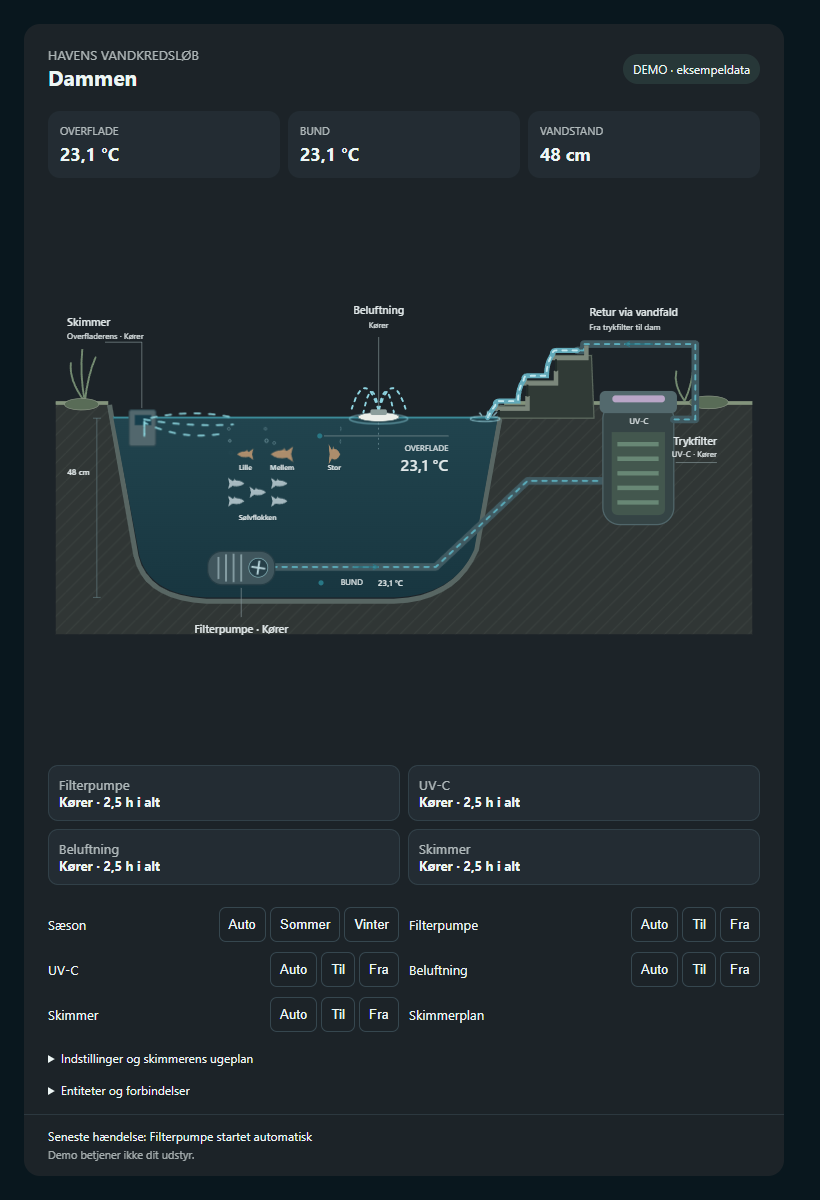
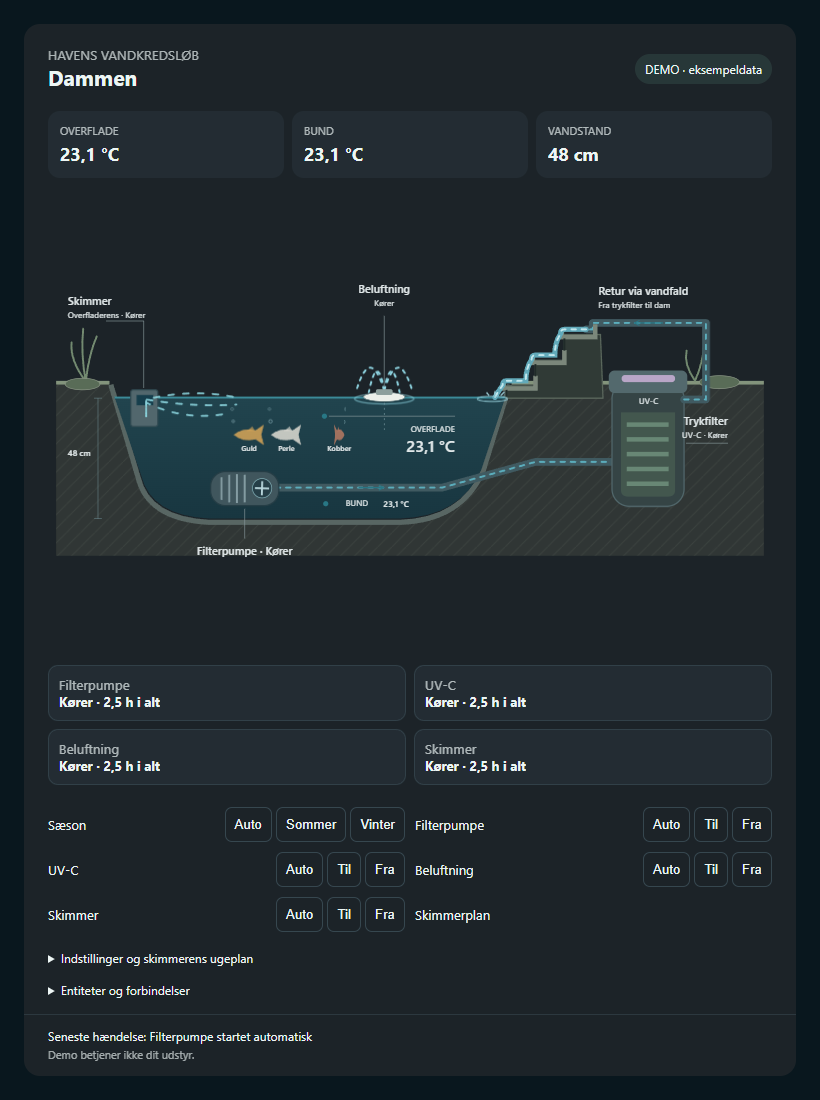
Turn school members individually and scale each fish bubble stream

diff --git a/pond-flow-card.js b/pond-flow-card.js
@@ -65,6 +65,10 @@ class PondFlowCard extends HTMLElement {
       swim.updatePlaybackRate(speed.current);
       const name=fish.querySelector('.fish-name-swim')?.getAnimations()[0];
       if (name && name.playState === 'running') name.updatePlaybackRate(speed.current);
+      fish.querySelectorAll('.fish-facing').forEach(member=>{
+        const turn=member.getAnimations()[0];
+        if(turn?.playState==='running') turn.updatePlaybackRate(speed.current);
+      });
     });
   }
   setConfig(config) {
@@ -92,15 +96,18 @@ class PondFlowCard extends HTMLElement {
   }
   pondDepth() { return Math.max(0,...this.fish().map(fish=>fish.row+fish.rowSpan-1))*48; }
   fishBodies(fish) {
-    const positions=fish.school?[[0,0],[-12,-6],[12,-6],[-12,6],[12,6]]:[[0,0]];
-    const scale=fish.scale*(fish.school ? .45 : 1);
-    return positions.map(([x,y])=>`<g class="fish-body" transform="translate(${x*fish.scale} ${y*fish.scale}) scale(${scale})"><path d="M-24 0Q-10-12 10-7L23-16L19 0L23 16L10 7Q-10 12-24 0Z" fill="${esc(fish.color)}" opacity=".85"/><path d="M-3-6L5-13L9-6" fill="${esc(fish.color)}" opacity=".65"/></g>`).join('');
+    const positions=fish.school?[[0,0],[-15,-9],[15,-9],[-15,9],[15,9]]:[[0,0]];
+    const scale=fish.scale*(fish.school ? .28 : 1);
+    return positions.map(([x,y],index)=>`<g class="fish-member" transform="translate(${x*fish.scale} ${y*fish.scale})" style="--turn-delay:${fish.delay-(fish.school?index*.18:0)}s;--bubble-delay:${fish.delay-index*.7}s;--bubble-rise:${(362-fish.y-y*fish.scale)/scale}px">
+      <g class="fish-scale" transform="scale(${scale})"><g class="fish-facing">
+      <g class="fish-body"><path d="M-24 0Q-10-12 10-7L23-16L19 0L23 16L10 7Q-10 12-24 0Z" fill="${esc(fish.color)}" opacity=".85"/><path d="M-3-6L5-13L9-6" fill="${esc(fish.color)}" opacity=".65"/></g>
+      ${this.config.fish_bubbles === false ? '' : '<g class="fish-bubbles" aria-hidden="true"><circle class="fish-bubble" cx="-23" cy="-2" r="2.5"/><circle class="fish-bubble" cx="-23" cy="-2" r="1.8"/><circle class="fish-bubble" cx="-23" cy="-2" r="2"/></g>'}
+      </g></g></g>`).join('');
   }
   fishMarkup() {
     return this.fish().map(fish => `<g class="fish${fish.school?' fish-school':''}" data-section="fish-${esc(fish.id)}" role="img" aria-label="${esc(fish.name || 'Fisk')}${fish.school?' · flok på 5 fisk':''}" transform="translate(${fish.x} ${fish.y})" style="--swim-duration:${fish.duration}s;--swim-delay:${fish.delay}s;--bubble-rise:${362-fish.y}px">
       <title>${esc(fish.name || 'Fisk')}</title><g class="fish-swim">
       ${this.fishBodies(fish)}
-      ${this.config.fish_bubbles === false ? '' : '<g class="fish-bubbles" aria-hidden="true"><circle class="fish-bubble" cx="-23" cy="-2" r="2.5"/><circle class="fish-bubble" cx="-23" cy="-2" r="1.8"/><circle class="fish-bubble" cx="-23" cy="-2" r="2"/></g>'}
       </g>${this.config.fish_names === false || !fish.name ? '' : `<g class="fish-name-swim" aria-hidden="true"><text class="fish-name" x="0" y="25" text-anchor="middle">${esc(fish.name)}</text></g>`}</g>`).join('');
   }
   set hass(hass) {
@@ -157,14 +164,16 @@ class PondFlowCard extends HTMLElement {
       svg{width:100%;height:auto;min-height:160px;flex:1 0 auto;display:block}ha-card> :not(svg){flex-shrink:0}svg text{font-family:system-ui;fill:#d7e9ed;font-size:13px}.flow{fill:none;stroke:#53d5db;stroke-width:7;stroke-linecap:round;stroke-dasharray:9 14;opacity:.28}.active{opacity:1;animation:water 2s linear infinite}@keyframes water{to{stroke-dashoffset:-48}}@media(prefers-reduced-motion:reduce){.active{animation:none}}
       .controls{padding:4px 24px 18px;display:grid;grid-template-columns:1fr 1fr;gap:10px}.control{display:flex;justify-content:space-between;align-items:center;gap:8px;font-size:13px}.control select{max-width:115px;padding:8px;border:1px solid #7196a550;border-radius:8px;background:var(--card-background-color,#193340);color:inherit}.status{padding:12px 24px;border-top:1px solid #7196a530;font-size:12px;line-height:1.6}.error{color:#f9a99b}.note{opacity:.65;font-size:11px}@media(max-width:420px){.controls{grid-template-columns:1fr}.metrics{padding:12px}.metric strong{font-size:15px}}
       [data-info]{cursor:pointer}.diagram-value{font-size:15px;font-weight:600;fill:#fff}.equipment{display:grid;grid-template-columns:repeat(2,minmax(0,1fr));gap:8px;padding:8px 24px 18px}.equipment button{font:inherit;text-align:left;color:inherit;background:#7396a415;border:1px solid #7196a530;border-radius:10px;padding:10px;cursor:pointer}.equipment small{display:block}.equipment strong{font-size:13px}.controls button{padding:9px;border-radius:7px;border:1px solid #7196a550;color:inherit;background:transparent;cursor:pointer}.controls button[aria-pressed=true]{background:#438b8b55}.options{display:flex;gap:4px;flex-wrap:wrap}.control{flex-wrap:wrap}.rotor{transform-box:fill-box;transform-origin:center;animation:spin 1.8s linear infinite}@keyframes spin{to{transform:rotate(360deg)}}@media(prefers-reduced-motion:reduce){.rotor{animation:none}}details{padding:0 24px 16px;font-size:12px;overflow-wrap:anywhere}
-      .fish-swim{animation:swim var(--swim-duration,22s) linear infinite;animation-delay:var(--swim-delay,0s);transform-box:view-box;transform-origin:0 0}@keyframes swim{0%{transform:translateX(50px) scaleX(1)}46%{transform:translateX(-60px) scaleX(1)}50%{transform:translateX(-60px) scaleX(-1)}96%{transform:translateX(50px) scaleX(-1)}100%{transform:translateX(50px) scaleX(1)}}
+      .fish-swim{animation:swim var(--swim-duration,22s) linear infinite;animation-delay:var(--swim-delay,0s);transform-box:view-box;transform-origin:0 0}@keyframes swim{0%,100%{transform:translateX(50px)}46%,50%{transform:translateX(-60px)}96%{transform:translateX(50px)}}
       .fish-bubble{fill:none;stroke:#b1d8e0;stroke-width:1.2;opacity:0;animation:fish-bubble 5.5s linear infinite;animation-delay:var(--swim-delay,0s)}.fish-bubble:nth-child(2){animation-delay:calc(var(--swim-delay,0s) - 1.8s)}.fish-bubble:nth-child(3){animation-delay:calc(var(--swim-delay,0s) - 3.6s)}@keyframes fish-bubble{0%{transform:translate(0,0);opacity:0}12%{opacity:.65}75%{opacity:.35}100%{transform:translate(-5px,var(--bubble-rise,-60px));opacity:0}}
       .skimmer-current path{fill:none;stroke:#8ad3dc;stroke-width:3;stroke-linecap:round;opacity:.15}.skimmer-current.moving path{opacity:.9;stroke-dasharray:9 14;animation:intake 1.5s linear infinite}.skimmer-current.moving path:nth-child(2){animation-delay:-.5s}.skimmer-current.moving path:nth-child(3){animation-delay:-1s}@keyframes intake{to{stroke-dashoffset:-46}}
       @container(max-width:560px){header{padding:16px 14px 8px;gap:8px;flex-wrap:wrap}.metrics{padding:10px 14px}.equipment{padding:8px 14px 14px}.controls{grid-template-columns:1fr;padding:4px 14px 16px}.control{flex-wrap:nowrap}.options{justify-content:flex-end}.status{padding:12px 14px}details{padding:0 14px 14px}.metric{padding:10px 8px}.metric strong{font-size:16px}.badge{max-width:100%;overflow-wrap:anywhere}}
       .fountain{display:none}.fountain.running{display:inline}.fountain path{fill:none;stroke:#8ed4e1;stroke-width:3;stroke-linecap:round;stroke-dasharray:5 8;animation:spray 1.2s linear infinite}.fountain path:nth-child(2n){animation-delay:-.6s}.fountain .ripple{fill:none;stroke:#8ed4e1;stroke-width:2;opacity:.6;animation:pond-ripple 2.4s ease-in-out infinite}@keyframes spray{to{stroke-dashoffset:-26}}@keyframes pond-ripple{50%{opacity:.2;stroke-width:4}}
       .fish-name-swim{animation:fish-name-swim var(--swim-duration,22s) linear infinite;animation-delay:var(--swim-delay,0s);pointer-events:none}@keyframes fish-name-swim{0%,100%{transform:translateX(50px)}46%,50%{transform:translateX(-60px)}96%{transform:translateX(50px)}}.pond-diagram .fish-name{font-size:11.3px;font-weight:600;fill:var(--primary-text-color,#e1e8e9);stroke:#183640;stroke-width:2px;paint-order:stroke fill;stroke-linejoin:round}
       .waterfall-water{visibility:hidden}.waterfall-water.running{visibility:visible}.waterfall-water .flow{stroke:#c1e7ed;stroke-width:3}.waterfall-splash{fill:none;stroke:#a3d6df;stroke-width:2;animation:waterfall-splash 1.6s ease-in-out infinite}.waterfall-ripple{fill:none;stroke:#8fc6d1;stroke-width:1.5;animation:pond-ripple 2.4s ease-in-out infinite}@keyframes waterfall-splash{50%{opacity:.3}}
-      @media(prefers-reduced-motion:reduce){.fish-swim,.fish-name-swim,.fish-bubble,.skimmer-current.moving path,.fountain path,.fountain .ripple,.waterfall-splash,.waterfall-ripple{animation:none}}
+      .fish-facing{animation:fish-turn var(--swim-duration,22s) linear infinite;animation-delay:var(--turn-delay,0s);transform-box:view-box;transform-origin:0 0}@keyframes fish-turn{0%,46%,100%{transform:scaleX(1)}50%,96%{transform:scaleX(-1)}}
+      .fish-bubble{animation-delay:var(--bubble-delay,0s)}.fish-bubble:nth-child(2){animation-delay:calc(var(--bubble-delay,0s) - 1.8s)}.fish-bubble:nth-child(3){animation-delay:calc(var(--bubble-delay,0s) - 3.6s)}
+      @media(prefers-reduced-motion:reduce){.fish-swim,.fish-facing,.fish-name-swim,.fish-bubble,.skimmer-current.moving path,.fountain path,.fountain .ripple,.waterfall-splash,.waterfall-ripple{animation:none}}
     </style>
     <ha-card>
       <header data-section="header"><div><small>HAVENS VANDKREDSLØB</small><h2>${esc(this.config.title || 'Dammen')}</h2></div><span class="badge">${demo ? 'DEMO · eksempeldata' : val('status','')}</span></header>

diff --git a/README.md b/README.md
@@ -1,5 +1,7 @@
 # Pond Flow Card
 
+Version 0.6.2 giver flokkens fem fisk mere luft imellem sig, med mindre individuelle kroppe inden for samme large-plads. Flokken flytter sig samlet, men hver fisk vender om sit eget centrum med let forskudt timing; formationen spejlvendes ikke længere. Hver fisk har egne bobler, som skaleres med kroppen. Det gælder også small/medium/large-enkeltfisk. Boblernes stigehøjde kompenseres for skaleringen, så de stadig når overfladen.
+
 Version 0.6.1 gør flokke kompakte: fem fisk fylder tilsammen højst én large-enkeltfisk. Hver fisk eller flok tæller som én plads i layoutet, så 18 enheder fordeles på seks svømmehøjder, også når alle er flokke. `size` angiver hele flokkens størrelse; standarden er large for både enkeltfisk og flokke. Navnet står med samme afstand som ved en enkeltfisk.
 
 ## Størrelser og fiskeflokke (v0.6.0)
